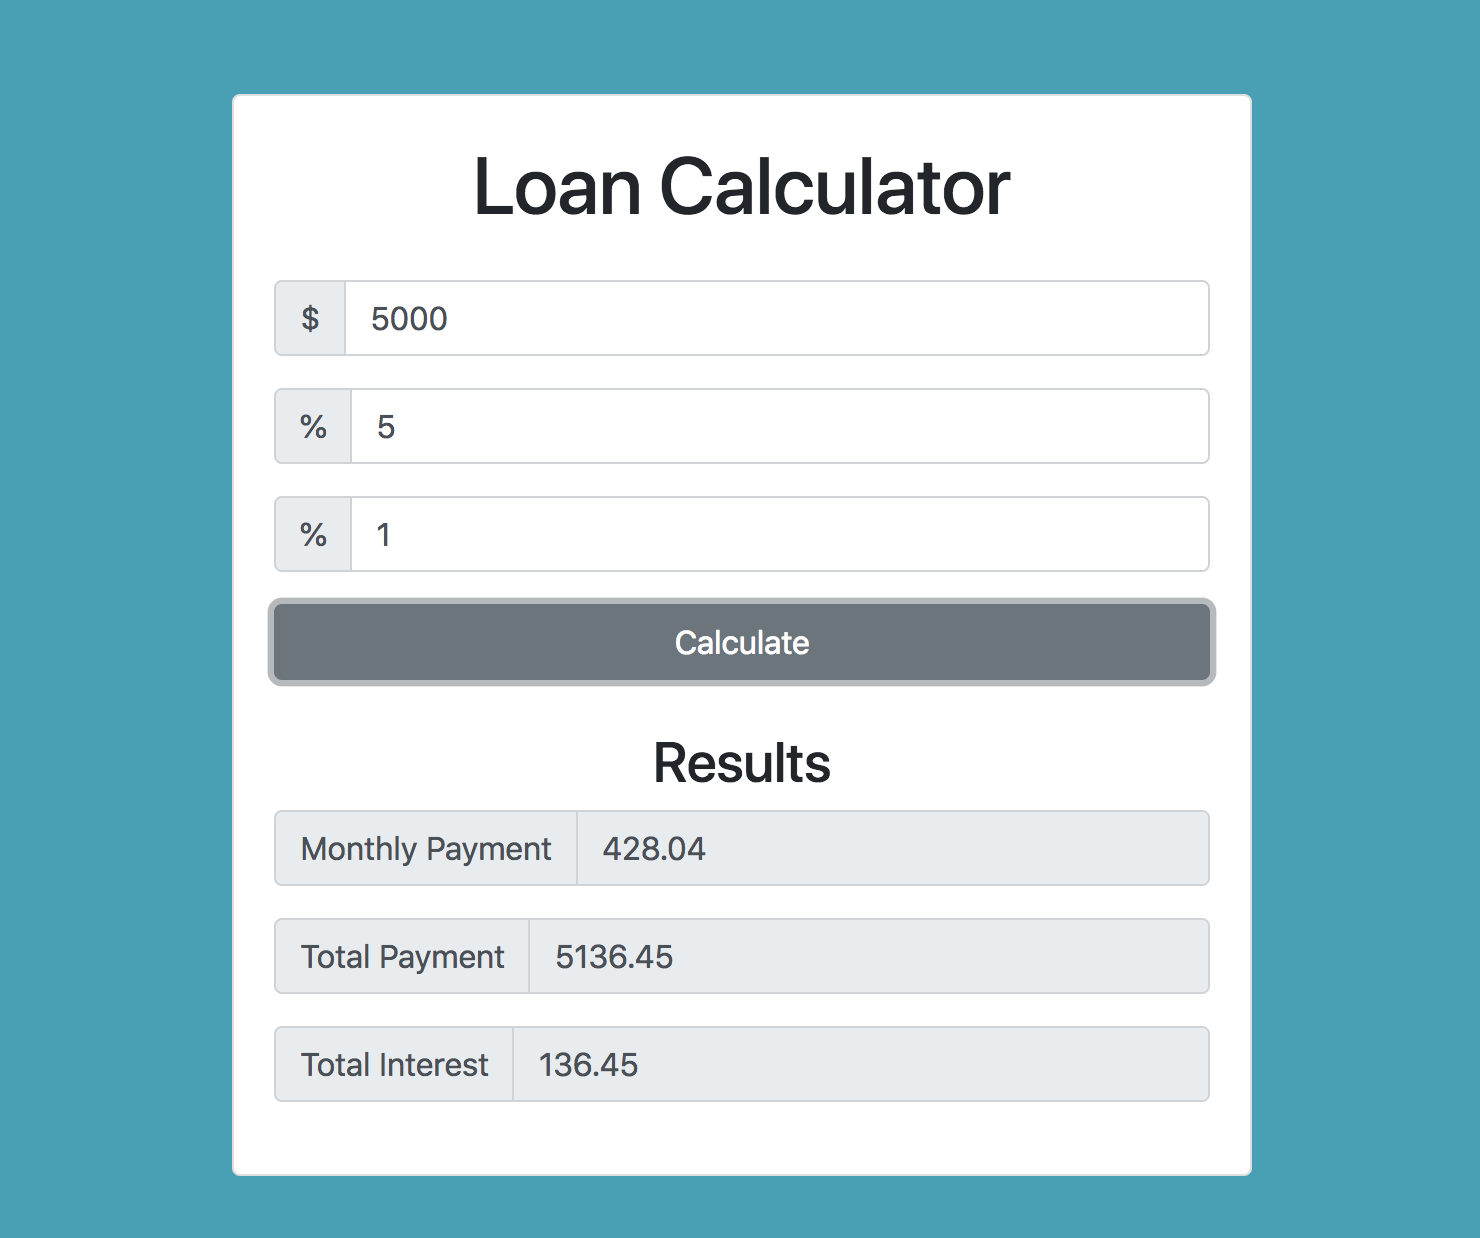
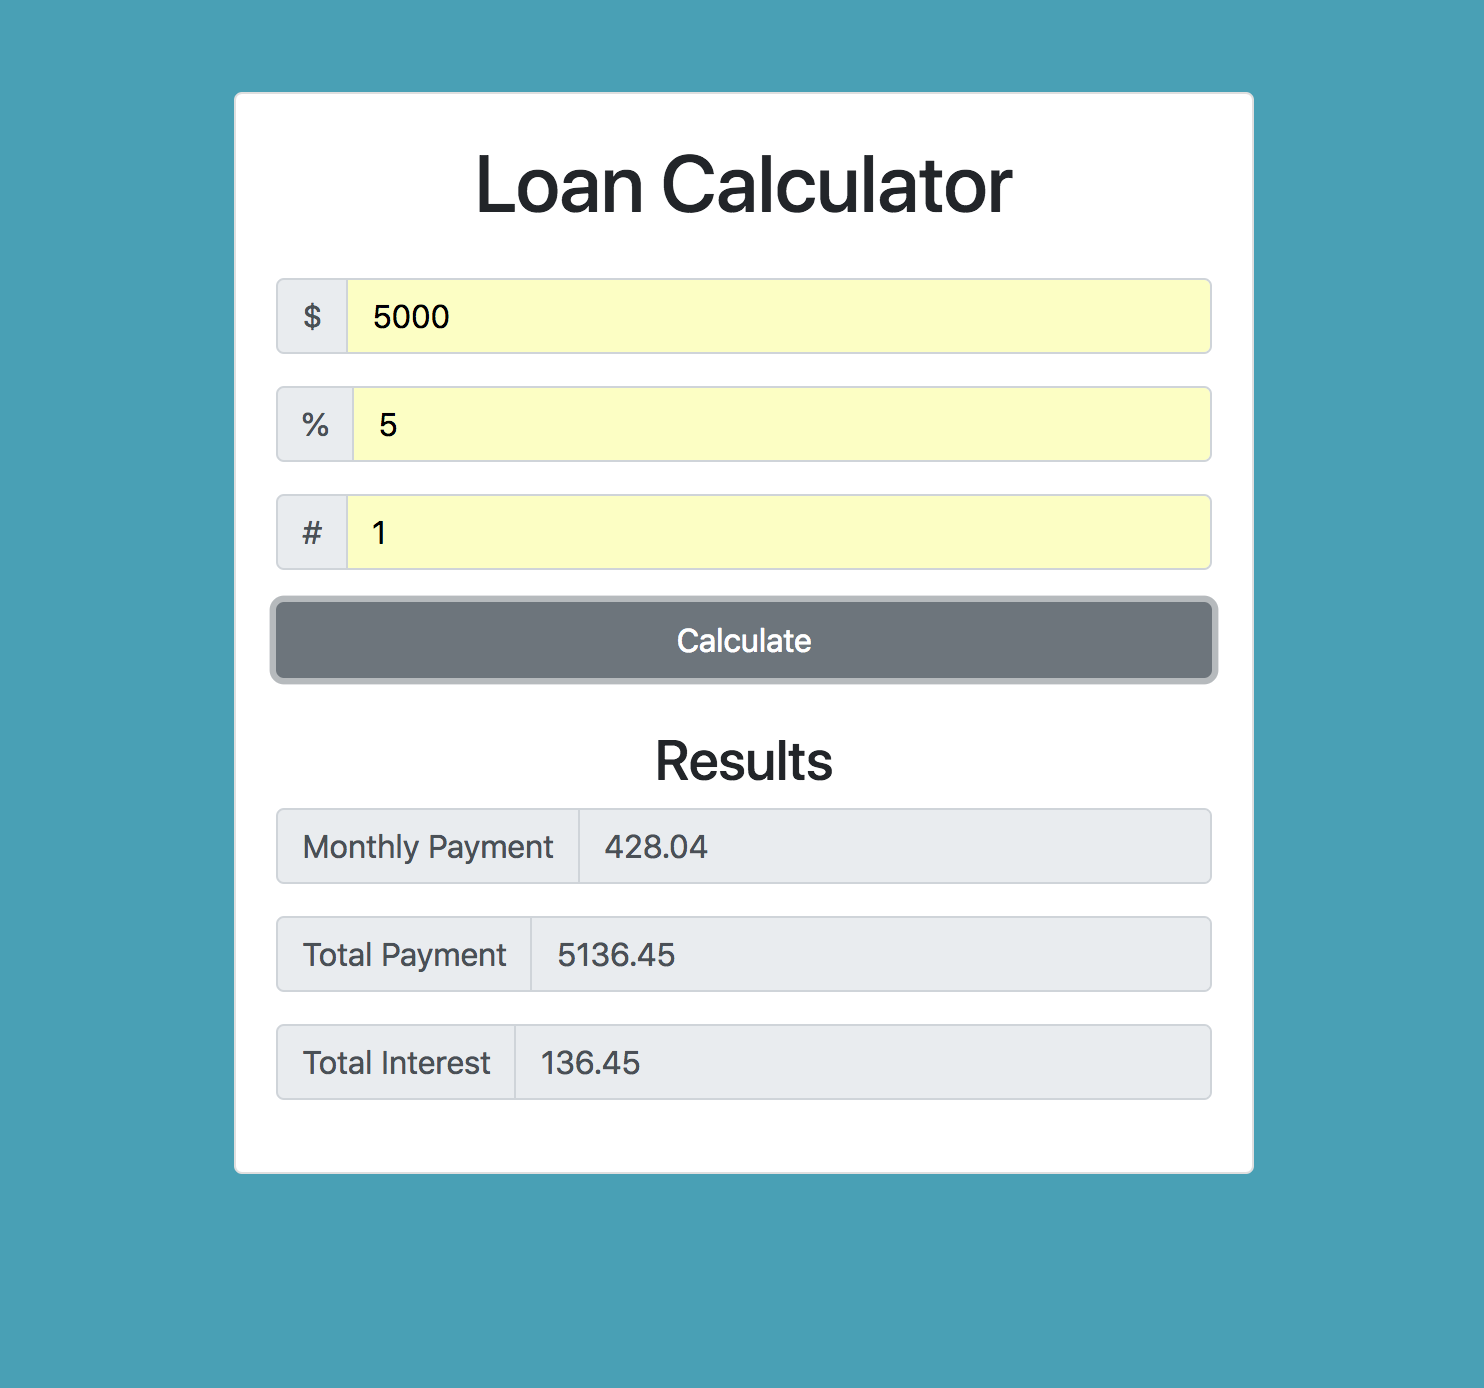
Loan Calculator app complete

diff --git a/02_domapps/01_loancalc/loan.js b/02_domapps/01_loancalc/loan.js
@@ -2,11 +2,22 @@
 const loanForm = document.querySelector('#loan-form');
 
 // Add Event Listeners
-loanForm.addEventListener('submit', calculateResults);
+// loanForm.addEventListener('submit', calculateResults);
+loanForm.addEventListener('submit', function(e) {
+  // hide results
+  document.querySelector('#results').style.display = 'none';
+
+  // show loader
+  document.querySelector('#loading').style.display = 'block';
+
+  setTimeout(calculateResults, 2000);
+
+  e.preventDefault();
+});
 
 
 // Function to calculateResults()
-function calculateResults(e) {
+function calculateResults() {
   console.log('Calculating...'); // test if function works
 
   // UI variables
@@ -31,16 +42,25 @@ function calculateResults(e) {
     monthlyPayment.value = monthly.toFixed(2);
     totalPayment.value = (monthly * calcPayments).toFixed(2);
     totalInterest.value = ((monthly * calcPayments) - principal).toFixed(2);
+
+    // show results
+    document.querySelector('#results').style.display = 'block';
+    // hide loading
+    document.querySelector('#loading').style.display = 'none';
   } else {
     // console.log('Error, please check your numbers.');
     showError('Please check your numbers');
   } 
-
-  e.preventDefault();
 }
 
 // Show Error - create new element
 function showError(error) {
+  // show results
+  document.querySelector('#results').style.display = 'none';
+
+  // hide loading
+  document.querySelector('#loading').style.display = 'none';
+
   // create a div
   const errorDiv = document.createElement('div');
 

diff --git a/02_domapps/01_loancalc/loan.html b/02_domapps/01_loancalc/loan.html
@@ -8,6 +8,9 @@
     <!-- Bootstrap CSS -->
     <link rel="stylesheet" href="https://stackpath.bootstrapcdn.com/bootstrap/4.1.3/css/bootstrap.min.css" integrity="sha384-MCw98/SFnGE8fJT3GXwEOngsV7Zt27NXFoaoApmYm81iuXoPkFOJwJ8ERdknLPMO" crossorigin="anonymous">
 
+    <!-- Custom CSS -->
+    <link rel="stylesheet" href="loan.css">
+
     <title>Loan Calculator</title>
   </head>
   <body class="bg-info">
@@ -40,7 +43,7 @@
               <div class="form-group">
                 <div class="input-group mb-3">
                   <div class="input-group-prepend">
-                    <span class="input-group-text">%</span>
+                    <span class="input-group-text">#</span>
                   </div>
                 <input type="text" class="form-control" id="years" aria-label="Years to Repay" placeholder="Years to Repay">
                 </div>
@@ -52,9 +55,9 @@
             </form>
             <!-- <hr> -->
             <!-- Loader/Loading -->
-            <!-- <div id="id">
+            <div id="loading">
               <img src="img/loading.gif" alt="Shows loading">
-            </div> -->
+            </div>
             <!-- Output Results of Calculations -->
             <div id="results" class="pt-2">
               <h3>Results</h3>

diff --git a/02_domapps/01_loancalc/loan.css b/02_domapps/01_loancalc/loan.css
@@ -1,0 +1,7 @@
+#loading {
+  display: none;
+}
+
+#results {
+  display: none;
+}

diff --git a/02_domapps/01_loancalc/README.md b/02_domapps/01_loancalc/README.md
@@ -202,3 +202,27 @@ function showError(error) {
 Use the method ```setTimeout()``` to have something happen after a certain amount of seconds. It takes in two parameters, one is a function, we'll create a name function later and use it as our first parameter, ```clearError```, and the second parameter is the number of seconds, it's in milliseconds.
 
 <kbd>![alt text](img/error.png "screenshot")</kbd>
+
+## Implement Loading Image to Improve UX
+
+Use CCS to iniitally hide the loading image and the results section. Take the id of ```#loading``` and ```#results``` and set display to ```none```.
+
+Now in the JS file, change the event listener for ```loadForm``` to call another function, so that it doesn't load ```calculateResults``` right away. Also, in ```calculateResults``` take out the ```e``` and ```e.preventDefault()```. Instead, move ```e.preventDefault()``` to new function that's the second parameter to the event listener after ```'submit'```. Also, remember to add the ```e``` as the parameter for the function.
+
+```
+loanForm.addEventListener('submit', function(e) {
+
+
+  e.preventDefault();
+});
+```
+
+What we want to do is show the loader, after the submit button is clicked. Should show for two seconds before the results calculation appears. Use ```setTimeout()``` and call ```calculateResults``` and set timer for two seconds.
+
+Also remember to hide the loading gif when error appears.
+
+<kbd>![alt text](img/loading.png "screenshot")</kbd>
+
+## That's the wrap
+
+A small project, but has a lot to it dealing with the DOM, a good foundation to create own calculator or convertors like degrees.
